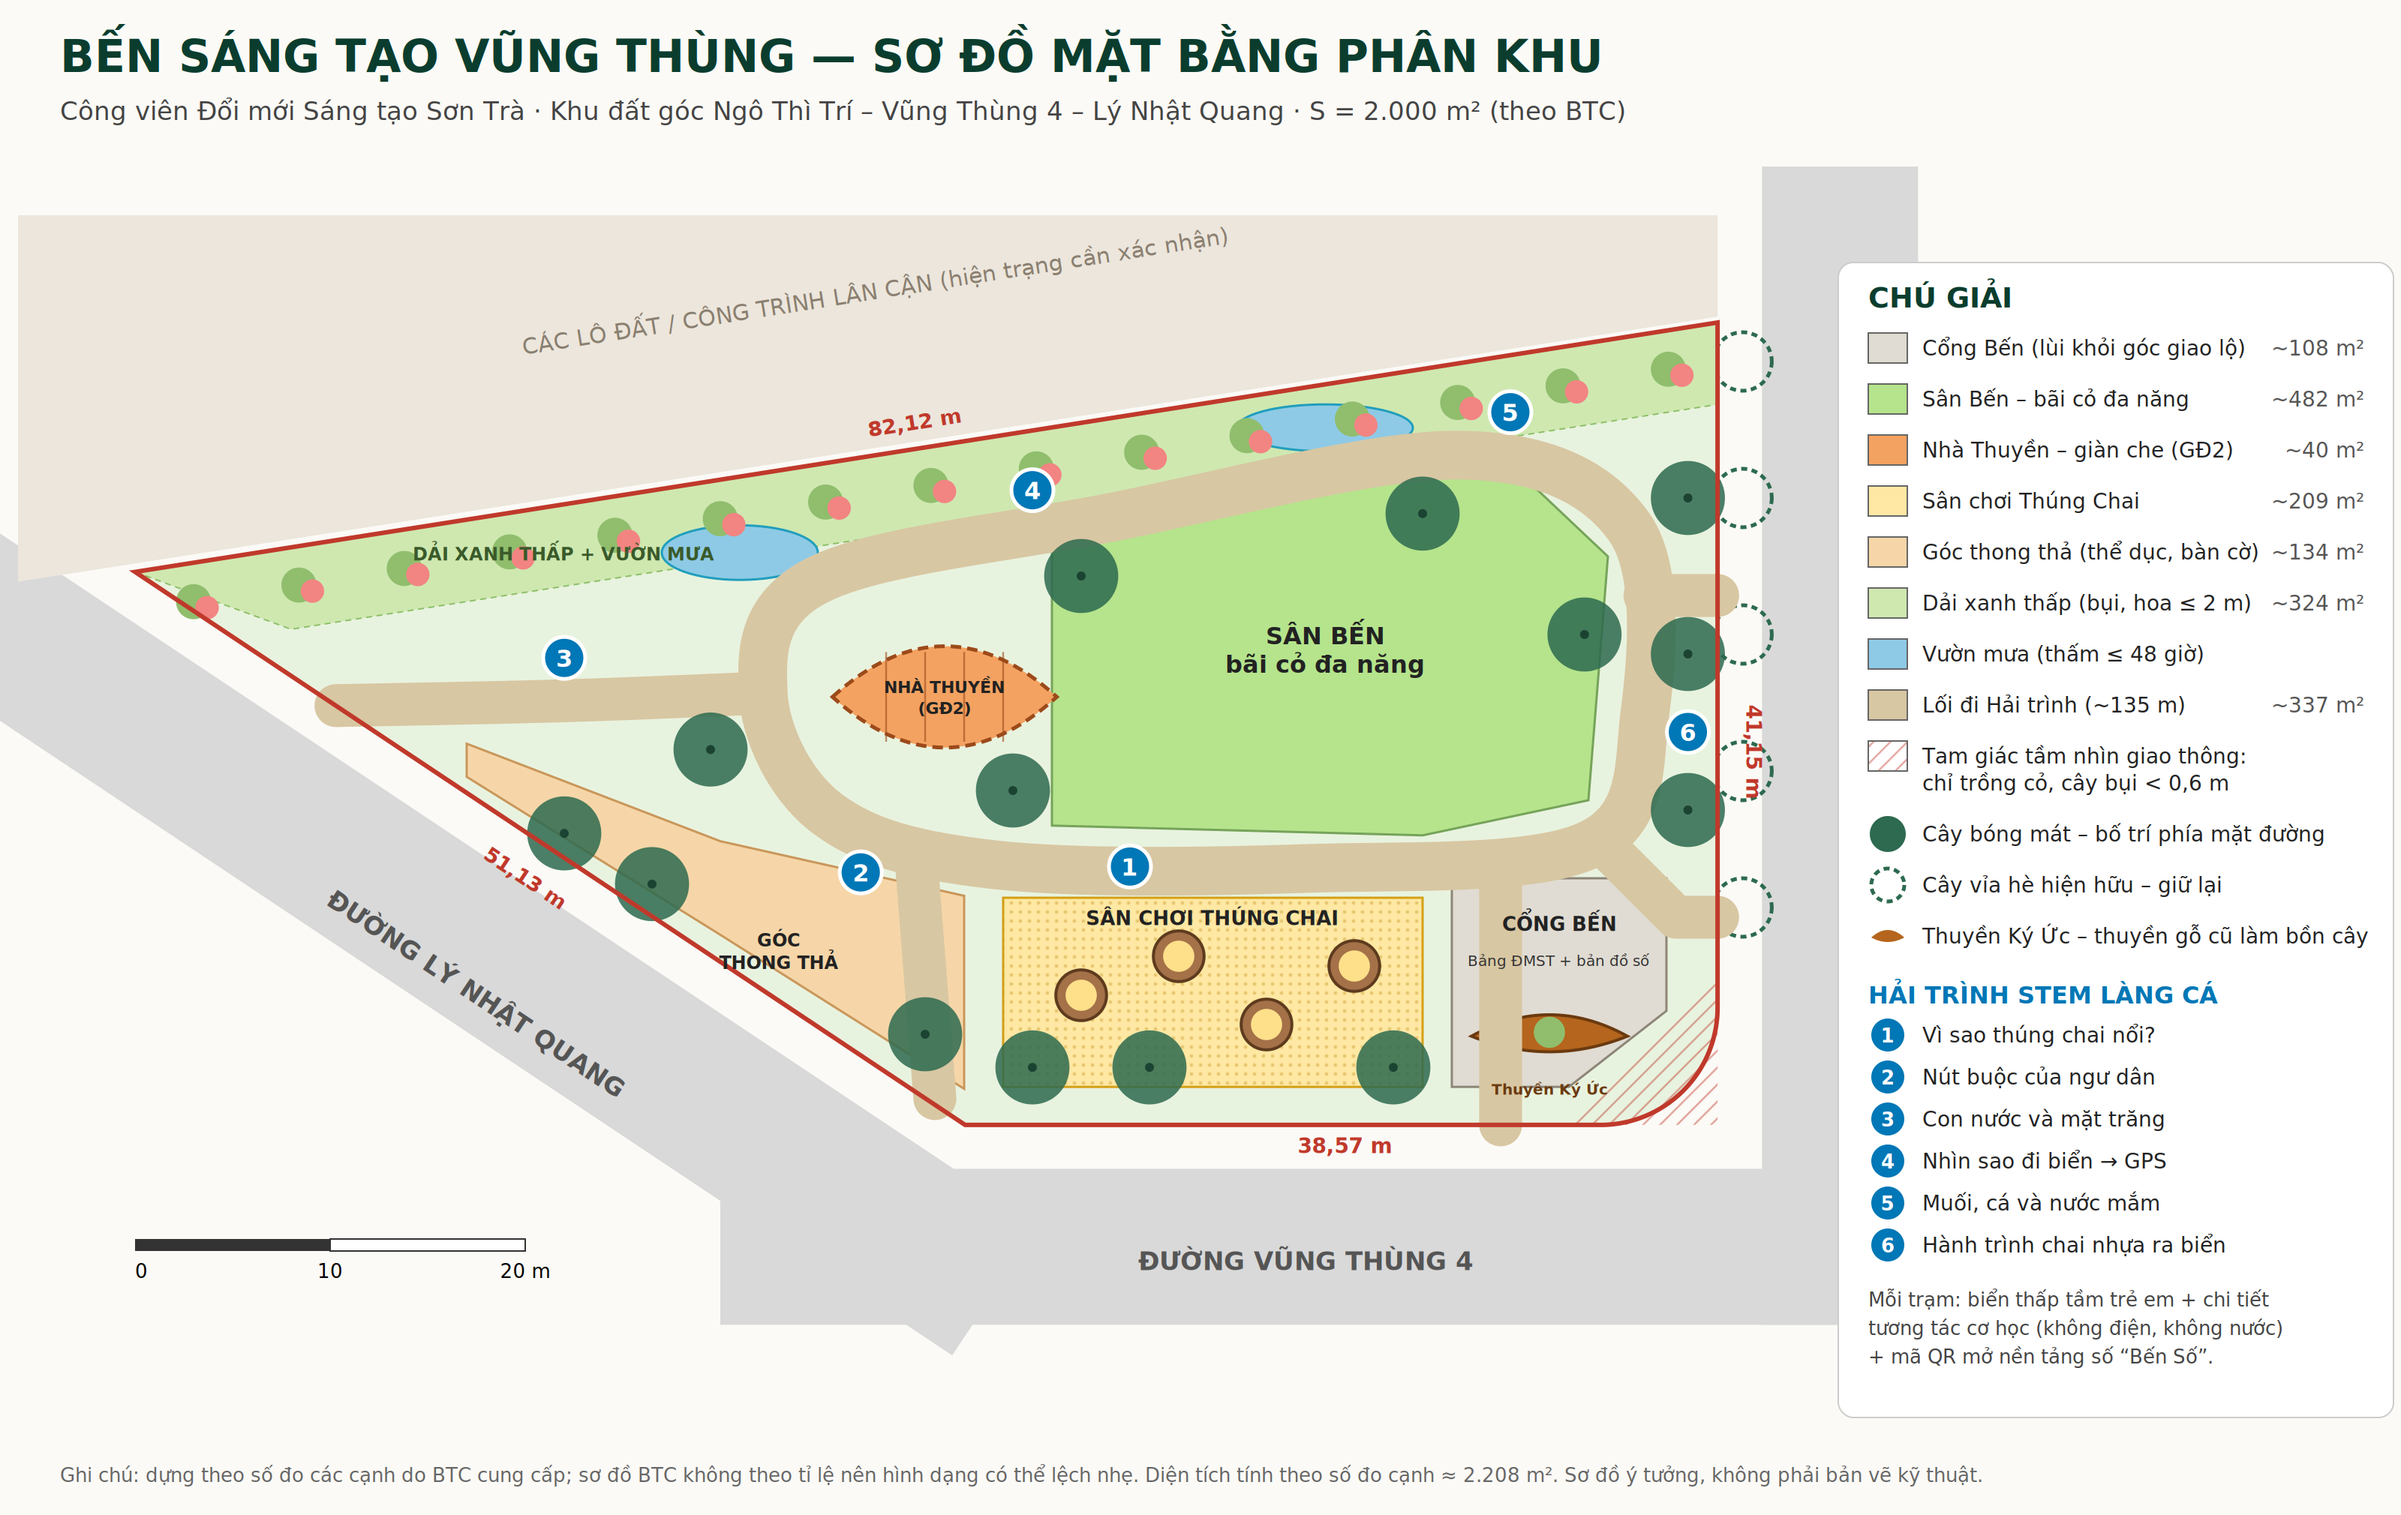
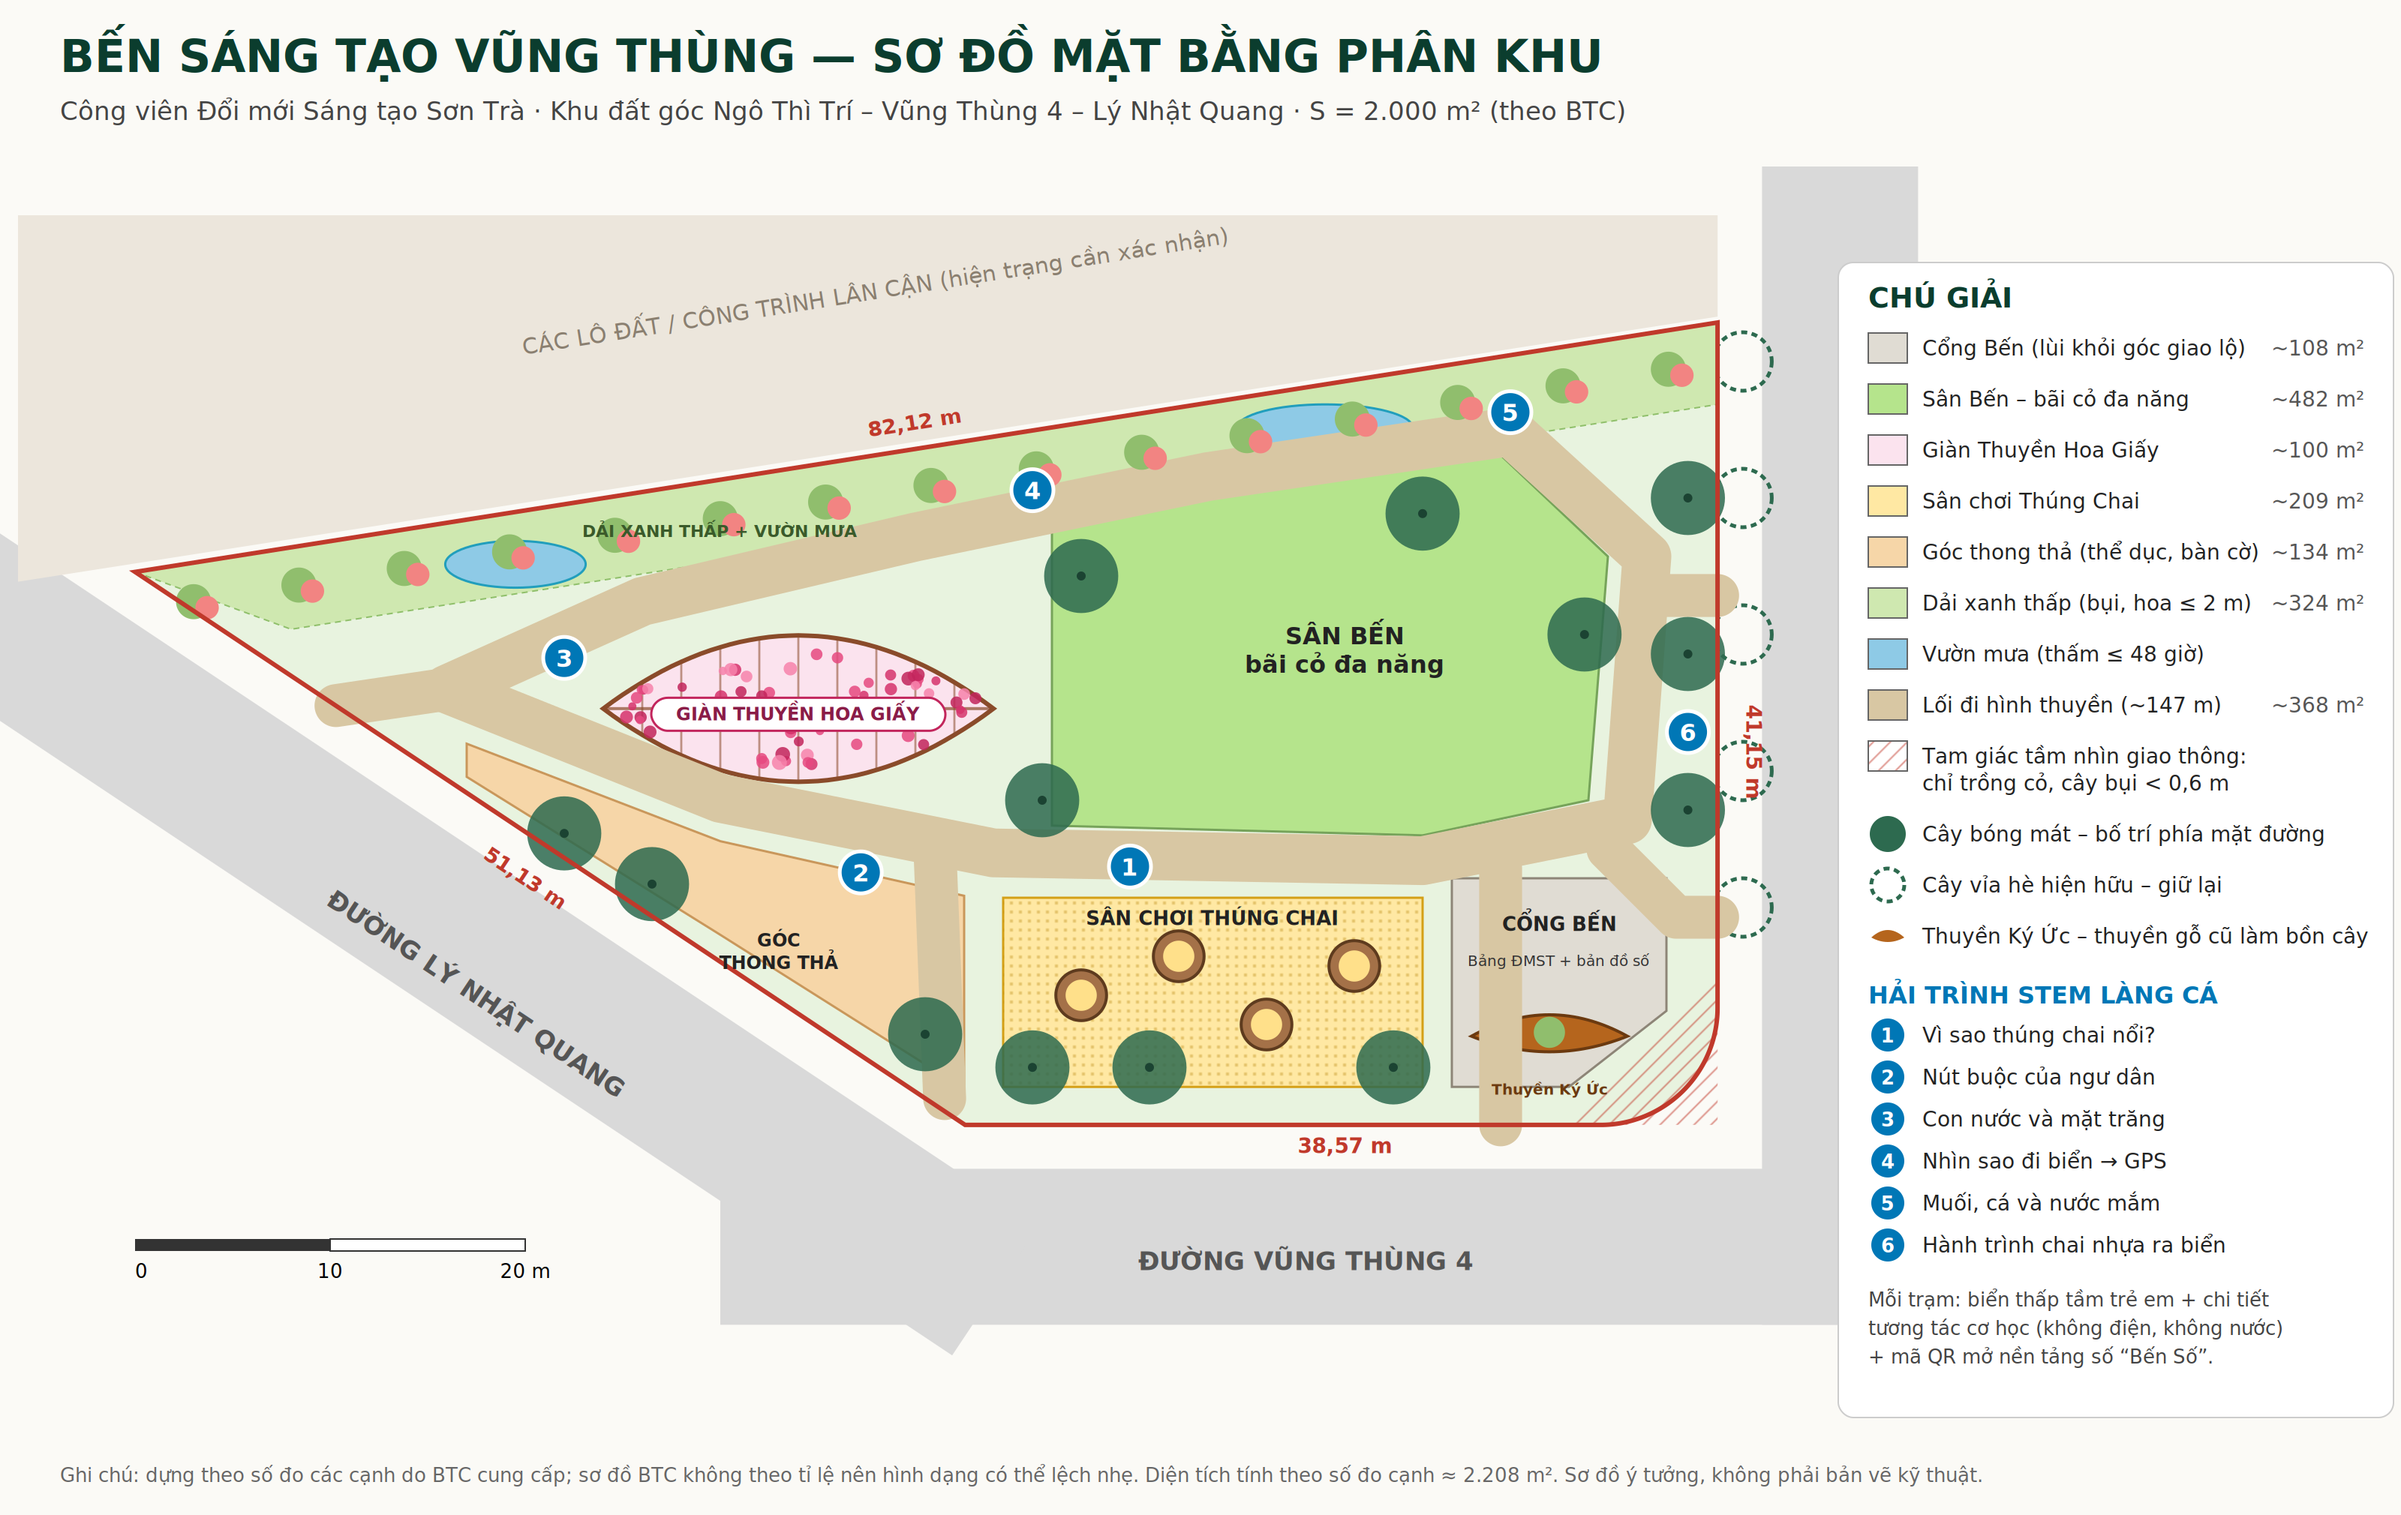
Sơ đồ: lối đi hình thuyền, Giàn Thuyền Hoa Giấy lớn
Claude-Session: https://claude.ai/code/session_016yb9UGMBdrbj8VwQqTGQjm

diff --git a/sodo/ve_so_do.py b/sodo/ve_so_do.py
@@ -29,14 +29,14 @@ boundary = (f"M{p(*A)[0]},{p(*A)[1]} L{p(*B)[0]},{p(*B)[1]} L{cx},{cy} "
 buffer_poly = [(x, top(x)) for x in (0, 81.12)] + [(81.12, 4.2), (6, top(6) + 4.2)]
 buffer_poly = [(0, 12.79), (81.12, 0), (81.12, 4.2), (8, top(8) + 4.2)]
 lawn = [(47, 10.2), (70, 6.8), (75.5, 12), (74.5, 24.5), (66, 26.3), (47, 25.8)]
-pavilion_c, pav_rx, pav_ry = (41.5, 19.2), 5.75, 2.6
+pavilion_c, pav_rx, pav_ry = (34, 19.8), 10, 3.75
 play = [(44.5, 29.5), (66, 29.5), (66, 39.2), (44.5, 39.2)]
 plaza = [(67.5, 28.5), (78.5, 28.5), (78.5, 35.3), (73.5, 39.2), (67.5, 39.2)]
 rest = [(17, 21.6), (30, 26.6), (42.5, 29.4), (42.5, 39.3), (30, 31.4), (17, 23.3)]
 sight = [(73.12, 41.15), (81.12, 33.15), (81.12, 41.15)]
-path_pts = [(35, 13.2), (50, 10.0), (68, 6.8), (76.6, 10.5), (77.4, 20), (74.5, 26.8), (60, 28.0),
-            (44, 27.8), (35.5, 25.2), (32.2, 19), (35, 13.2)]
-spur_pts = [(32.2, 19), (22, 19.4), (10.3, 19.65)]
+path_pts = [(16, 18.8), (30, 24.4), (44, 27.2), (66, 27.6), (76.5, 25.5), (77.5, 12),
+            (70.5, 5.6), (55, 7.9), (40, 11.0), (26, 14.3), (16, 18.8)]
+spur_pts = [(16, 18.8), (10.3, 19.65)]
 def smooth(ptsl, closed=True):
     P = ptsl[:-1] if closed else ptsl
     n = len(P); d = ""
@@ -51,16 +51,16 @@ def smooth(ptsl, closed=True):
     return d + ("Z" if closed else "")
 path_len = sum(math.dist(path_pts[i], path_pts[i + 1]) for i in range(len(path_pts) - 1)) + \
            sum(math.dist(spur_pts[i], spur_pts[i + 1]) for i in range(len(spur_pts) - 1))
-rain = [((31, 11.8), 4.0, 1.4), ((61, 5.4), 4.5, 1.2)]
+rain = [((19.5, 12.4), 3.6, 1.2), ((61, 5.4), 4.5, 1.2)]
 stations = [(1, (51, 27.9)), (2, (37.2, 28.2)), (3, (22, 17.2)), (4, (46, 8.6)),
             (5, (70.5, 4.6)), (6, (79.6, 21))]
 
 trees = [(46, 38.2), (52, 38.2), (64.5, 38.2), (79.6, 25), (79.6, 17), (79.6, 9), (22, 26.2),
-         (26.5, 28.8), (40.5, 36.5), (45, 24), (66, 9.8), (48.5, 13), (74.3, 16), (29.5, 21.9)]
+         (26.5, 28.8), (40.5, 36.5), (46.5, 24.5), (66, 9.8), (48.5, 13), (74.3, 16),]
 shrubs = [(3 + i * 5.4, top(3 + i * 5.4) + 2.0) for i in range(15)]
 site_area = area([A, B, C, D]) - (R * R - math.pi * R * R / 4)
 A_lawn = area(lawn); A_play = area(play); A_plaza = area(plaza); A_rest = area(rest)
-A_buf = area(buffer_poly); A_pav = 2 / 3 * 11.5 * 5.2
+A_buf = area(buffer_poly); A_pav = 2 / 3 * 20 * 7.5
 A_path = path_len * 2.5
 
 # ---- vẽ ----
@@ -108,12 +108,23 @@ o.append(f'<polygon points="{pts(play)}" fill="url(#sand)"/>')
 o.append(f'<polygon points="{pts(plaza)}" fill="#e0dcd3" stroke="#8d8577" stroke-width="1.5"/>')
 o.append(f'<polygon points="{pts(sight)}" fill="url(#hatch)"/>')
 cx0, cy0 = pavilion_c
-L, Wd = 11.5, 5.2
-hull = f"M{p(cx0-L/2, cy0)[0]},{p(cx0-L/2, cy0)[1]} Q{p(cx0, cy0-Wd)[0]},{p(cx0, cy0-Wd)[1]} {p(cx0+L/2, cy0)[0]},{p(cx0+L/2, cy0)[1]} Q{p(cx0, cy0+Wd)[0]},{p(cx0, cy0+Wd)[1]} {p(cx0-L/2, cy0)[0]},{p(cx0-L/2, cy0)[1]} Z"
-o.append(f'<path d="{hull}" fill="#f4a261" stroke="#9c4a1a" stroke-width="2.5" stroke-dasharray="7 4"/>')
-for k in (-3, -1, 1, 3):
-    a, b = p(cx0 + k, cy0 - 2.3), p(cx0 + k, cy0 + 2.3)
-    o.append(f'<line x1="{a[0]}" y1="{a[1]}" x2="{b[0]}" y2="{b[1]}" stroke="#9c4a1a" stroke-width="1.2" opacity=".6"/>')
+L, Wd = 20, 7.5
+def hullpt(u, side):  # u từ -1..1 dọc thân, side ±1
+    return (cx0 + u * L / 2, cy0 + side * (Wd / 2) * (1 - u * u))
+hull_pts = [hullpt(-1 + i / 20, -1) for i in range(41)] + [hullpt(1 - i / 20, 1) for i in range(41)]
+o.append(f'<polygon points="{pts(hull_pts)}" fill="#fbe3ee" stroke="#8a4b2a" stroke-width="3"/>')
+for k in range(-8, 9, 2):   # sườn thuyền
+    a, b = p(*hullpt(k / 10, -1)), p(*hullpt(k / 10, 1))
+    o.append(f'<line x1="{a[0]}" y1="{a[1]}" x2="{b[0]}" y2="{b[1]}" stroke="#8a4b2a" stroke-width="1.4" opacity=".55"/>')
+a, b = p(cx0 - L / 2, cy0), p(cx0 + L / 2, cy0)
+o.append(f'<line x1="{a[0]}" y1="{a[1]}" x2="{b[0]}" y2="{b[1]}" stroke="#8a4b2a" stroke-width="2" opacity=".7"/>')
+import random
+random.seed(7)
+for _ in range(70):   # hoa giấy
+    u = random.uniform(-.92, .92); v = random.uniform(-.85, .85)
+    fx, fy = cx0 + u * L / 2, cy0 + v * (Wd / 2) * (1 - u * u)
+    X, Y = p(fx, fy)
+    o.append(f'<circle cx="{X:.1f}" cy="{Y:.1f}" r="{random.uniform(2.5, 5):.1f}" fill="{random.choice(["#d6336c", "#e64980", "#f783ac", "#c2255c"])}" opacity=".85"/>')
 # Thuyền Ký Ức (thuyền gỗ cũ tái sử dụng làm bồn cây) ở Cổng Bến
 bx, by = 72.5, 36.6
 boat = f"M{p(bx-4,by)[0]},{p(bx-4,by)[1]} Q{p(bx,by-2.2)[0]},{p(bx,by-2.2)[1]} {p(bx+4,by)[0]},{p(bx+4,by)[1]} Q{p(bx,by+1.6)[0]},{p(bx,by+1.6)[1]} {p(bx-4,by)[0]},{p(bx-4,by)[1]}Z"
@@ -125,9 +136,9 @@ for tx, ty in [(48.5, 34.5), (53.5, 32.5), (58, 36), (62.5, 33)]:
     o.append(f'<circle cx="{x}" cy="{y}" r="{1.3*S}" fill="#a47148" stroke="#5e3b1e" stroke-width="2"/>')
     o.append(f'<circle cx="{x}" cy="{y}" r="{0.8*S}" fill="#ffe08a"/>')
 # lối đi vòng
-o.append(f'<path d="{smooth(path_pts)}" fill="none" stroke="#d8c7a3" stroke-width="{2.5*S}" stroke-linejoin="round"/>')
+o.append(f'<polyline points="{pts(path_pts)}" fill="none" stroke="#d8c7a3" stroke-width="{2.5*S}" stroke-linejoin="round" stroke-linecap="round"/>')
 o.append(f'<path d="{smooth(spur_pts, False)}" fill="none" stroke="#d8c7a3" stroke-width="{2.2*S}" stroke-linecap="round"/>')
-for q in [((70, 28), (70, 41.15)), ((75.5, 27), (79, 30.5), (81.12, 30.5)), ((40, 27), (41, 39.8)),
+for q in [((70, 28), (70, 41.15)), ((75.5, 27), (79, 30.5), (81.12, 30.5)), ((41, 27), (41.5, 39.8)),
           ((77.4, 14), (81.12, 14))]:
     o.append(f'<polyline points="{pts(list(q))}" fill="none" stroke="#d8c7a3" stroke-width="{2.2*S}" stroke-linecap="round" stroke-linejoin="round"/>')
 # cây
@@ -151,14 +162,16 @@ def label(txt, x, y, size=15, color="#222", w="bold"):
     X, Y = p(x, y)
     for i, line in enumerate(txt.split("\n")):
         o.append(f'<text x="{X}" y="{Y + i*(size+3)}" font-size="{size}" font-weight="{w}" fill="{color}" text-anchor="middle">{line}</text>')
-label("SÂN BẾN\nbãi cỏ đa năng", 61, 16.5, 16)
-label("NHÀ THUYỀN\n(GĐ2)", 41.5, 19.0, 11)
+label("SÂN BẾN\nbãi cỏ đa năng", 62, 16.5, 16)
+X0, Y0 = p(34, 20.4)
+o.append(f'<rect x="{X0-98}" y="{Y0-15}" width="196" height="22" rx="11" fill="#fff" stroke="#c2255c" stroke-width="1.5"/>')
+label("GIÀN THUYỀN HOA GIẤY", 34, 20.4, 12, "#8a1c47")
 label("SÂN CHƠI THÚNG CHAI", 55.2, 30.9, 13)
 label("CỔNG BẾN", 73, 31.2, 13)
 label("Bảng ĐMST + bản đồ số", 73, 33.0, 10, "#333", "normal")
 label("Thuyền Ký Ức", 72.5, 39.6, 10, "#6b3a10")
 label("GÓC\nTHONG THẢ", 33, 32.0, 12)
-label("DẢI XANH THẤP + VƯỜN MƯA", 22, 12.2, 12, "#3a5a2a")
+label("DẢI XANH THẤP + VƯỜN MƯA", 30, 11.0, 11, "#3a5a2a")
 # kích thước cạnh
 def dim(txt, x, y, rot):
     X, Y = p(x, y)
@@ -181,12 +194,12 @@ o.append(f'<text x="{LX}" y="{LY-10}" font-size="19" font-weight="bold" fill="#0
 items = [
     ("#e0dcd3", "Cổng Bến (lùi khỏi góc giao lộ)", f"~{A_plaza:.0f} m²"),
     ("#b5e48c", "Sân Bến – bãi cỏ đa năng", f"~{A_lawn:.0f} m²"),
-    ("#f4a261", "Nhà Thuyền – giàn che (GĐ2)", f"~{A_pav:.0f} m²"),
+    ("#fbe3ee", "Giàn Thuyền Hoa Giấy", f"~{A_pav:.0f} m²"),
     ("#ffe8a3", "Sân chơi Thúng Chai", f"~{A_play:.0f} m²"),
     ("#f6d6a8", "Góc thong thả (thể dục, bàn cờ)", f"~{A_rest:.0f} m²"),
     ("#cfe8b0", "Dải xanh thấp (bụi, hoa ≤ 2 m)", f"~{A_buf:.0f} m²"),
     ("#8ecae6", "Vườn mưa (thấm ≤ 48 giờ)", ""),
-    ("#d8c7a3", f"Lối đi Hải trình (~{path_len:.0f} m)", f"~{A_path:.0f} m²"),
+    ("#d8c7a3", f"Lối đi hình thuyền (~{path_len:.0f} m)", f"~{A_path:.0f} m²"),
 ]
 y = LY + 22
 for col, name, ar in items:
